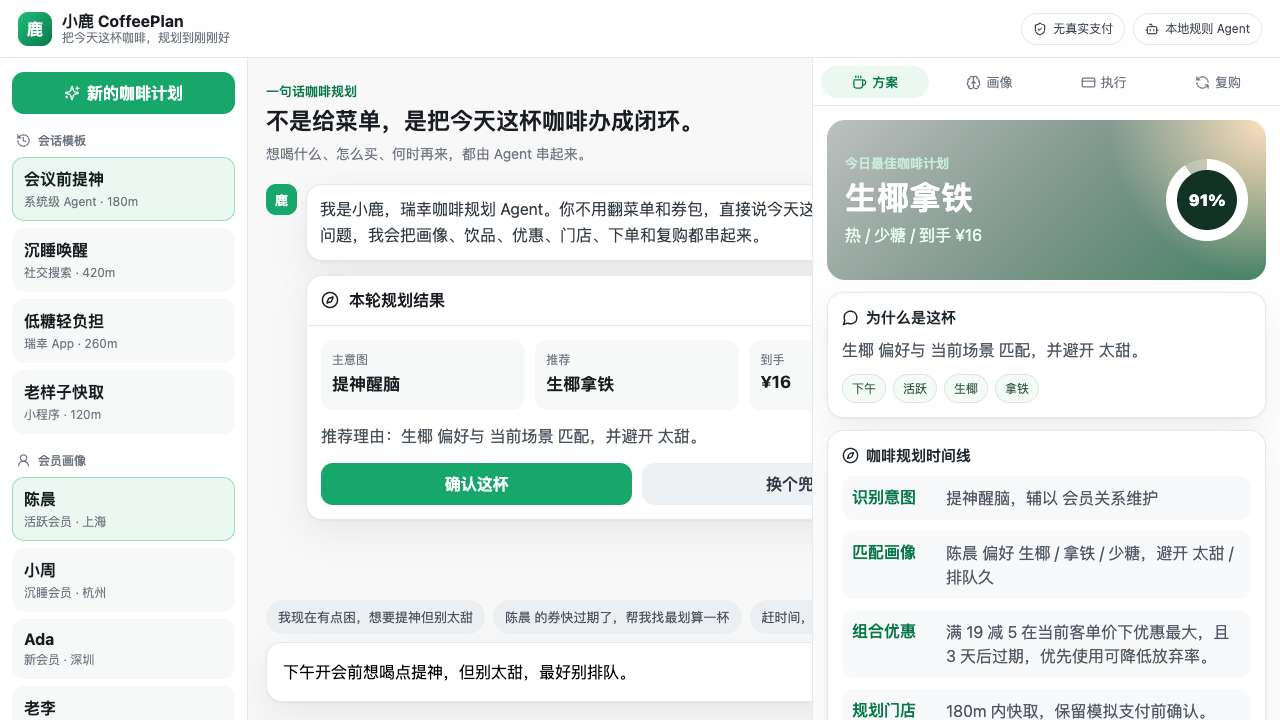
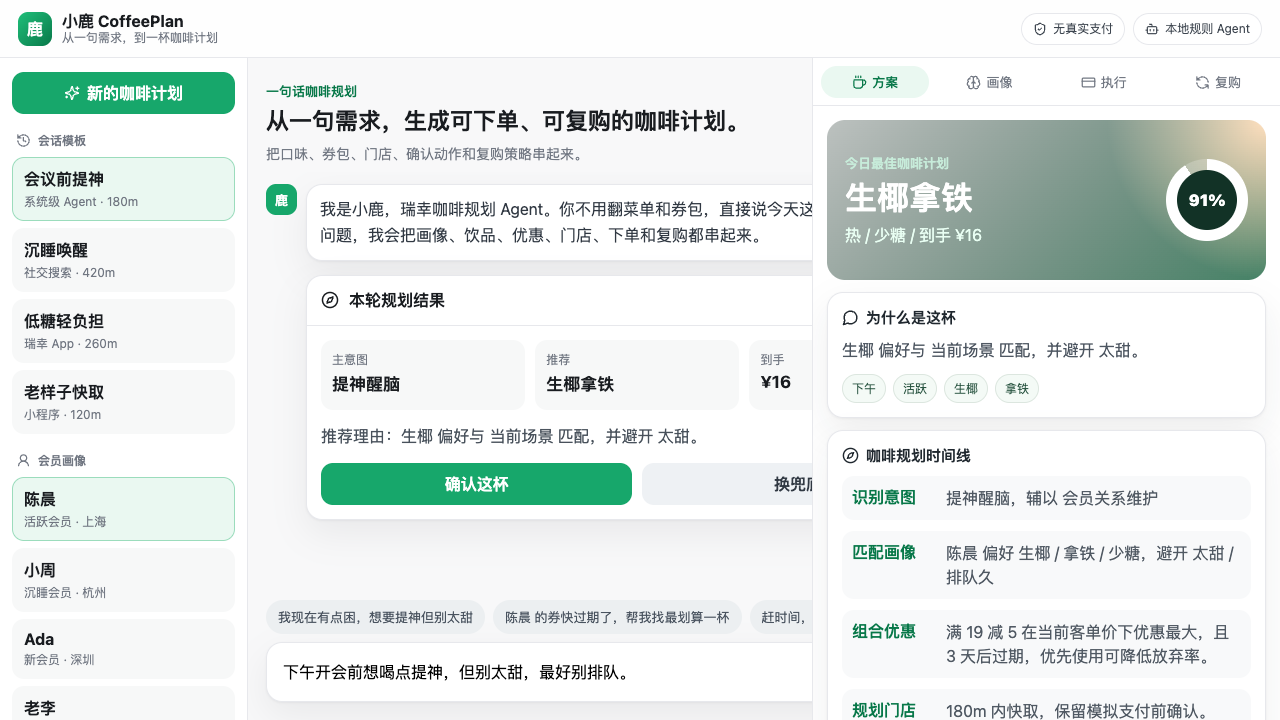
Polish submission copy and public repo contents

Changed region(s): [[0.1875, 0.1528, 0.5938, 0.2444], [0.0312, 0.0306, 0.1875, 0.0611], [0.5938, 0.6417, 0.625, 0.7028]]

diff --git a/src/main.tsx b/src/main.tsx
@@ -101,7 +101,7 @@ function App() {
           <div className="brand-mark">鹿</div>
           <div>
             <strong>小鹿 CoffeePlan</strong>
-            <span>把今天这杯咖啡，规划到刚刚好</span>
+            <span>从一句需求，到一杯咖啡计划</span>
           </div>
         </div>
         <div className="top-actions">
@@ -150,8 +150,8 @@ function App() {
       <section className="chat-pane">
         <div className="chat-header">
           <p>一句话咖啡规划</p>
-          <h1>不是给菜单，是把今天这杯咖啡办成闭环。</h1>
-          <span>想喝什么、怎么买、何时再来，都由 Agent 串起来。</span>
+          <h1>从一句需求，生成可下单、可复购的咖啡计划。</h1>
+          <span>把口味、券包、门店、确认动作和复购策略串起来。</span>
         </div>
 
         <div className="chat-feed" aria-label="咖啡规划对话">

diff --git a/docs/solution-brief.md b/docs/solution-brief.md
@@ -2,9 +2,9 @@
 
 ## 1. 命题理解
 
-瑞幸命题的关键词不是“点单”，而是“流量运营闭环”。当用户入口迁移到系统级 Agent、社交搜索、车机、手机助手等场景后，品牌无法默认拥有页面流量，也不一定能直接展示完整营销货架。此时，谁能更早理解用户意图、更可信地解释推荐，并把成交反馈回写成会员资产，谁就能重新定义会员关系。
+瑞幸命题的关键词不是“点单”，而是“流量运营闭环”。当用户入口迁移到系统级 Agent、社交搜索、车机、手机助手等场景后，品牌无法默认拥有页面流量，也不一定能直接展示完整营销货架。此时，更早理解用户意图、更清楚解释推荐，并把成交反馈回写成会员资产，才是重构会员关系的关键。
 
-瑞幸已有 APP/小程序高频交易、会员分层和 Lucky AI 点单基础，因此参赛方案不应停留在“AI 帮我买咖啡”。小鹿 CoffeePlan 的定位是“咖啡规划 Agent”：用户说一句今天的状态，Agent 规划一杯最合适的咖啡，并把唤醒、推荐、优惠、下单、复购串成闭环。
+瑞幸已有 APP/小程序高频交易、会员分层和 Lucky AI 点单基础，因此参赛方案不应停留在“AI 帮我买咖啡”。小鹿 CoffeePlan 的定位是“咖啡规划 Agent”：用户说一句今天的状态，Agent 给出一杯可解释、可确认、可复购的咖啡方案，并把唤醒、推荐、优惠、下单、复购串成闭环。
 
 ## 2. 产品体验
 

diff --git a/docs/demo-design.md b/docs/demo-design.md
@@ -12,7 +12,7 @@
 
 1. 选择一个会员样本和会话模板。
 2. 在中间对话区输入真实场景需求，例如“下午开会前想喝点提神但别太甜”。
-3. Agent 像“小满”的出行规划一样，输出“咖啡规划”：主意图、推荐饮品、到手价和稳妥度。
+3. Agent 输出“咖啡规划”：主意图、推荐饮品、到手价和稳妥度。
 4. 右侧方案画布展开画像、优惠解释、门店/下单模拟、兜底和复购策略。
 5. 点击“确认这杯”“模拟支付完成”，看到执行状态进入复购运营页。
 

diff --git a/docs/demo-walkthrough.md b/docs/demo-walkthrough.md
@@ -7,7 +7,7 @@
 ## 演示步骤
 
 1. 打开 `http://localhost:5173/`。
-2. 介绍产品名：小鹿 CoffeePlan，把今天这杯咖啡规划到刚刚好。
+2. 介绍产品名：小鹿 CoffeePlan，从一句需求生成可下单、可复购的咖啡计划。
 3. 左侧选择“会议前提神”和会员“陈晨”。
 4. 中间输入框保留默认需求：
 

diff --git a/research/research-notes.md b/research/research-notes.md
@@ -47,7 +47,7 @@
 
 - 入口/注册门槛：旅行用户反馈 Luckin 下单依赖 App/小程序和手机号/支付宝链路，注册或支付流程可能卡住。[来源：Reddit travelchina 讨论](https://www.reddit.com/r/travelchina/comments/1nc90ep/ordering_at_luckin_coffe_doesnt_work/)
 - 优惠券与价格信任：用户对优惠券未自动使用、不同账号价格差异、退改补偿规则有投诉和舆论讨论。Agent 推荐不能只追转化，还要解释优惠和价格逻辑，建立“可信推荐”。[来源：App Store 评论页](https://apps.apple.com/cn/app/1296749505?platform=iphone&see-all=reviews)；[来源：黑猫投诉样例](https://tousu.sina.cn/complaint/view/17370789667)；[来源：中国新闻网陕西频道](https://www.shx.chinanews.com.cn/news/2025/0430/105084.html)
-- 场景决策复杂：咖啡消费包含时间、天气、工作日节奏、口味、门店距离、券、取餐方式、健康偏好等变量。普通推荐会把选择压力留给用户，Agent 应该把变量折叠成“此刻最合适的下一步”。
+- 场景决策复杂：咖啡消费包含时间、天气、工作日节奏、口味、门店距离、券、取餐方式、健康偏好等变量。瑞幸需要让 Agent 在这些变量里直接产出“此刻该推哪杯、用哪张券、走哪个门店路径”的可执行动作。
 
 ## 6. 参考 bcefghj 项目风格
 